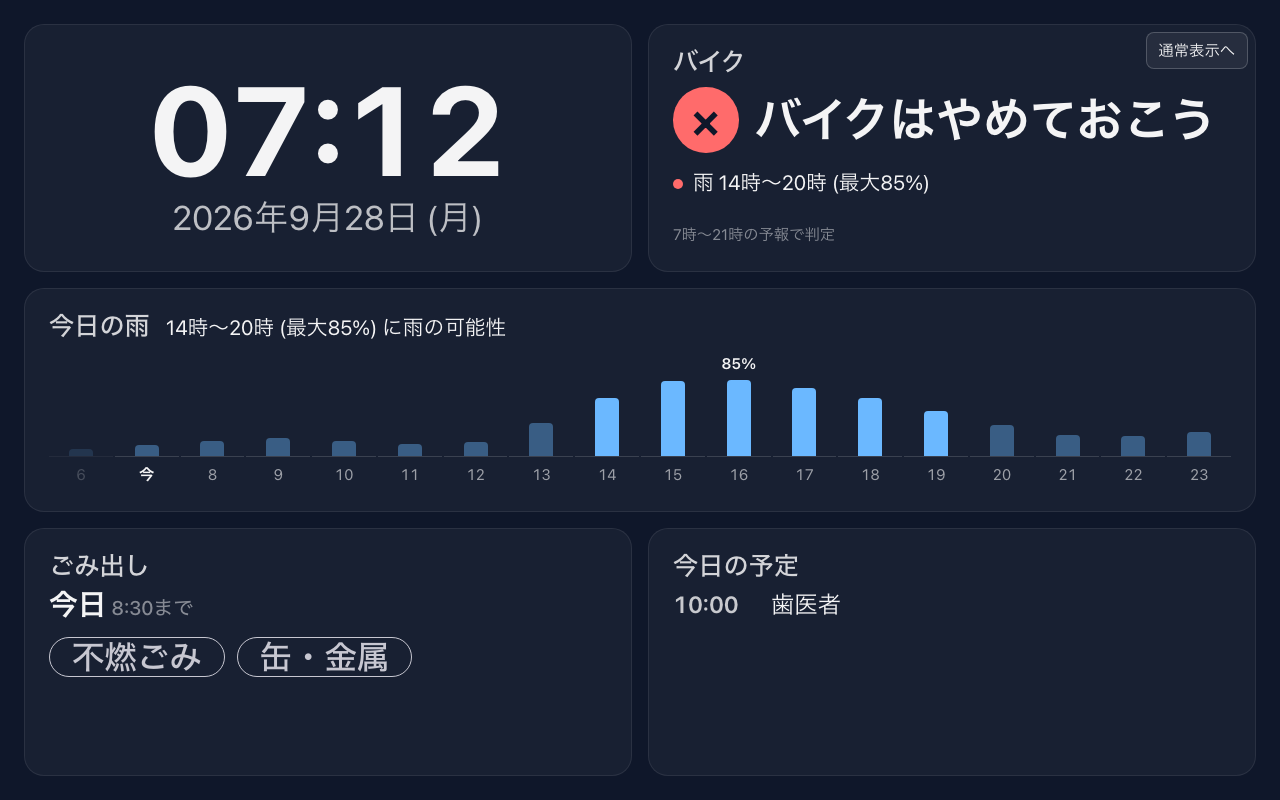
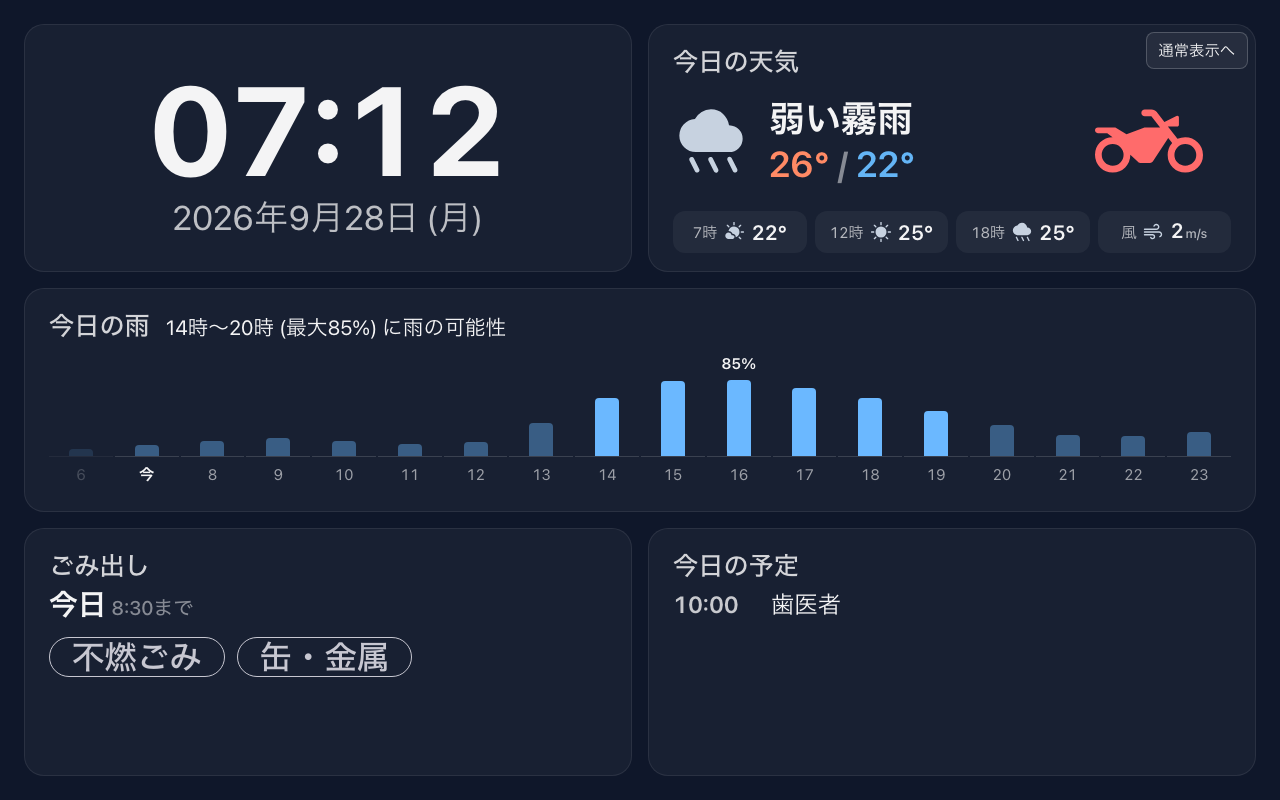
朝モードのバイク欄を「今日の天気」カードに変更し、判定はアイコンの色で示す
「バイクはやめておこう」などの文言と理由の一覧をやめ、今日の天気・最高/最低気温、
7時/12時/18時の天気と気温、最大風速を表示する。バイクで出かけられるかは
バイクのアイコンの色 (緑: 行ける / 黄: 注意 / 赤: やめておこう) だけで示す。
アイコンは Material Symbols (Apache License 2.0)。READMEの説明と画像も更新。

diff --git a/frontend/src/components/icons.jsx b/frontend/src/components/icons.jsx
@@ -1,0 +1,49 @@
+// アイコンはすべて Google Material Symbols (Rounded, Fill) の SVG パス (Apache License 2.0)
+const PATHS = {
+  bike: 'M157-200q-65 0-111-45.5T0-357q0-66 45.5-111.5T156-514l-47-36H25q-11 0-18-7t-7-18q0-11 7-18t18-7h156l99 60 149-56q5-2 10.5-3t10.5-1h129l-78-100h-59q-13 0-21.5-8.5T412-730q0-13 8.5-21.5T442-760h60q14 0 26.5 6t20.5 17l68 88 107-53q8-4 15 .5t7 12.5v65q0 6-4.5 10.5T731-609h-83l85 110q17-7 34-10.5t35-3.5q66 0 112 45.5T960-356q0 66-46 111t-112 45q-65 0-110.5-45.5T646-356q0-30 10-57t30-49l-35-45-137 209q-5 6-11 10t-14 4h-82q-5 0-10.5-2t-10.5-6l-72-65q0 66-45.5 111.5T157-200Zm0-60q41 0 69-28.5t28-68.5q0-40-28-68.5T157-454q-40 0-68.5 28T60-357q0 41 28.5 69t68.5 28Zm645 0q41 0 69.5-28t28.5-68q0-41-28.5-69.5T802-454q-40 0-68 28.5T706-356q0 40 28 68t68 28Z',
+  sunny: 'M458.5-778.63Q450-787.25 450-800v-90q0-12.75 8.68-21.38 8.67-8.62 21.5-8.62 12.82 0 21.32 8.62 8.5 8.63 8.5 21.38v90q0 12.75-8.68 21.37-8.67 8.63-21.5 8.63-12.82 0-21.32-8.63ZM685-685q-9-9-9-21.1 0-12.1 9-20.9l63-64q9.07-9 21.53-9 12.47 0 21.47 9 9 9 9 21t-9 21l-64 64q-9 9-21 9t-21-9Zm115 235q-12.75 0-21.37-8.68-8.63-8.67-8.63-21.5 0-12.82 8.63-21.32 8.62-8.5 21.37-8.5h90q12.75 0 21.38 8.68 8.62 8.67 8.62 21.5 0 12.82-8.62 21.32-8.63 8.5-21.38 8.5h-90ZM458.5-48.63Q450-57.25 450-70v-90q0-12.75 8.68-21.38 8.67-8.62 21.5-8.62 12.82 0 21.32 8.62 8.5 8.63 8.5 21.38v90q0 12.75-8.68 21.37-8.67 8.63-21.5 8.63-12.82 0-21.32-8.63ZM233-685l-64-63q-9-8.87-9-21.43 0-12.57 9.39-21.57 8.61-9 20.61-9t21 9l64 64q9 9 9 21t-9 21q-9.27 8-21.64 8-12.36 0-20.36-8Zm516 516-64-64q-9-8.8-9-20.9 0-12.1 9-21.1 8.25-8 20.63-8 12.37 0 21.37 8l65 63q9 9 8.63 21.6-.37 12.61-8.53 21.5-8.89 8.9-21.5 8.9-12.6 0-21.6-9ZM70-450q-12.75 0-21.37-8.68-8.63-8.67-8.63-21.5 0-12.82 8.63-21.32Q57.25-510 70-510h90q12.75 0 21.38 8.68 8.62 8.67 8.62 21.5 0 12.82-8.62 21.32-8.63 8.5-21.38 8.5H70Zm99 280.61q-9-8.61-9-20.61t9-21l64-64q8.25-8 20.63-8 12.37 0 21.37 8.25 9 9 9 21.37 0 12.38-9 21.38l-63 63q-8.87 9-21.43 9-12.57 0-21.57-9.39ZM310-310q-70-70-70-170t70-170q70-70 170-70t170 70q70 70 70 170t-70 170q-70 70-170 70t-170-70Z',
+  partlyCloudy: 'm749-169-63-63q-9-9-9-21.5t9-21.5q9-9 21.5-9t21.5 9l63 63q9 9 9 21.5t-9 21.5q-9 9-21.5 9t-21.5-9Zm-509-11q-58 0-99-41t-41-99q0-58 41-99t99-41q39 0 71.5 21t47.5 57l18 41h44q33 0 56 24t23 57q0 33-23.5 56.5T420-180H240Zm318-73q0-61-41-104.5T416-401q-20-56-68-89t-108-30q14-88 82.5-144T480-720q100 0 170 70t70 170q0 78-44.5 140T558-253Zm242-197q-13 0-21.5-8.5T770-480q0-13 8.5-21.5T800-510h90q13 0 21.5 8.5T920-480q0 13-8.5 21.5T890-450h-90ZM233-685l-64-64q-9-9-9-21t9-21q9-9 21-9t21 9l64 64q9 9 9 21t-9 21q-9 9-21 9t-21-9Zm452 0q-9-9-9-21.5t9-21.5l63-63q9-9 21.5-9t21.5 9q9 9 9 21t-9 21l-64 64q-9 9-21 9t-21-9Zm-226.5-93.5Q450-787 450-800v-90q0-13 8.5-21.5T480-920q13 0 21.5 8.5T510-890v90q0 13-8.5 21.5T480-770q-13 0-21.5-8.5Z',
+  cloud: 'M251-160q-88 0-149.5-61.5T40-371q0-78 50-137t127-71q20-97 94-158.5T482-799q112 0 189 81.5T748-522v24q72-2 122 46.5T920-329q0 69-50 119t-119 50H251Z',
+  rainy: 'M558-83q-11 5-23.5 1T517-97l-69-138q-5-11-1.5-23.5T461-276q11-5 23.5-1t17.5 15l69 138q5 11 1.5 23.5T558-83Zm240-1q-11 5-23.5 1T757-98l-69-138q-5-11-1.5-23.5T701-277q11-5 23.5-1t17.5 15l69 138q5 11 1.5 23.5T798-84Zm-480 0q-11 5-23.5 1.5T277-97l-69-138q-5-11-1-23.5t15-17.5q11-5 23.5-1.5T263-263l69 139q5 11 1 23t-15 17Zm-28-256q-87 0-148.5-61.5T80-550q0-79 56.5-141T277-759q32-56 84.5-88.5T480-880q91 0 152.5 57.5T708-680q79 4 125.5 53.5T880-510q0 70-49.5 120T710-340H290Z',
+  snowy: 'M231.5-221.64q-11.5-11.64-11.5-28.5t11.64-28.36q11.64-11.5 28.5-11.5t28.36 11.64q11.5 11.64 11.5 28.5t-11.64 28.36q-11.64 11.5-28.5 11.5t-28.36-11.64Zm120 130q-11.5-11.64-11.5-28.5t11.64-28.36q11.64-11.5 28.5-11.5t28.36 11.64q11.5 11.64 11.5 28.5T408.36-91.5Q396.72-80 379.86-80T351.5-91.64Zm120-130q-11.5-11.64-11.5-28.5t11.64-28.36q11.64-11.5 28.5-11.5t28.36 11.64q11.5 11.64 11.5 28.5t-11.64 28.36q-11.64 11.5-28.5 11.5t-28.36-11.64Zm240 0q-11.5-11.64-11.5-28.5t11.64-28.36q11.64-11.5 28.5-11.5t28.36 11.64q11.5 11.64 11.5 28.5t-11.64 28.36q-11.64 11.5-28.5 11.5t-28.36-11.64Zm-120 130q-11.5-11.64-11.5-28.5t11.64-28.36q11.64-11.5 28.5-11.5t28.36 11.64q11.5 11.64 11.5 28.5T648.36-91.5Q636.72-80 619.86-80T591.5-91.64ZM290-380q-86.86 0-148.43-61.52Q80-503.04 80-589.83 80-669 136.5-731 193-793 277-799q32-56 84.5-88.5T480.42-920q90.58 0 152.08 57.5Q694-805 708-720q79 4 125.5 53.5T880-550.38Q880-480 830.42-430 780.83-380 710-380H290Z',
+  thunderstorm: 'M327-40q-10 0-15.5-8T309-65l27-75h-65q-4 0-6.5-3t-.5-7l41-115q2-7 7.5-11t13.5-4h61q8 0 12.5 6.5T401-259l-34 79h68q5 0 6.5 4t-1.5 8L346-47q-3 4-7 5.5T327-40Zm270-40q-10 0-15.5-8t-2.5-17l19-55h-67q-4 0-6.5-3t-.5-7l33-95q2-7 8-11t14-4h61q8 0 12.5 6.5T654-259l-26 59h66q5 0 7 4t-1 8L616-87q-1 1-19 7ZM290-340q-87 0-148.5-61.5T80-550q0-79 56.5-141T277-759q32-56 84.5-88.5T480-880q91 0 152.5 57.5T708-680q79 4 125.5 53.5T880-510q0 70-49.5 120T710-340H290Z',
+  foggy: 'M720-205q-14 0-24.5-10.5T685-240q0-14 10.5-24.5T720-275q14 0 24.5 10.5T755-240q0 14-10.5 24.5T720-205ZM280-80q-14 0-24.5-10.5T245-115q0-14 10.5-24.5T280-150q14 0 24.5 10.5T315-115q0 14-10.5 24.5T280-80Zm-40-125q-14 0-24.5-10.5T205-240q0-14 10.5-24.5T240-275h360q14 0 24.5 10.5T635-240q0 14-10.5 24.5T600-205H240ZM400-80q-14 0-24.5-10.5T365-115q0-14 10.5-24.5T400-150h280q14 0 24.5 10.5T715-115q0 14-10.5 24.5T680-80H400ZM290-340q-87 0-148.5-61.5T80-550q0-79 56.5-141T277-759q32-56 84.5-88.5T480-880q91 0 152.5 57.5T708-680q79 4 125.5 53.5T880-510q0 70-49.5 120T710-340H290Z',
+  wind: 'M461-160q-38 0-69-22t-41-59q-3-13 6.5-23t23.5-10q11 0 19 7.5t13 18.5q6 14 19.5 21t28.5 7q23 0 38.5-15.5T515-274q0-23-15.5-38.5T461-328H110q-13 0-21.5-8.5T80-358q0-13 8.5-21.5T110-388h351q48 0 81 33t33 81q0 48-33 81t-81 33ZM110-568q-13 0-21.5-8.5T80-598q0-13 8.5-21.5T110-628h513q32 0 54-22t22-54q0-32-22-54t-54-22q-23 0-42 12t-26 33q-4 11-12.5 19t-19.5 8q-14 0-22.5-9.5T495-740q11-45 46.5-72.5T623-840q57 0 96.5 39.5T759-704q0 57-39.5 96.5T623-568H110Zm670 321q-13 2-22.5-6.5T748-276q0-11 8-19.5t19-12.5q22-7 33.5-26t11.5-42q0-30-21-51t-51-21H110q-13 0-21.5-8.5T80-478q0-13 8.5-21.5T110-508h638q55 0 93.5 38.5T880-376q0 47-27.5 83T780-247Z',
+};
+
+function Icon({ name, className, label }) {
+  return (
+    <svg
+      className={className}
+      viewBox="0 -960 960 960"
+      role={label ? 'img' : undefined}
+      aria-label={label}
+      aria-hidden={label ? undefined : true}
+    >
+      <path d={PATHS[name]} />
+    </svg>
+  );
+}
+
+// Open-Meteo の天気コード (WMO) → アイコン
+function weatherIconName(code) {
+  if (code <= 1) return 'sunny';
+  if (code === 2) return 'partlyCloudy';
+  if (code === 3) return 'cloud';
+  if (code === 45 || code === 48) return 'foggy';
+  if ((code >= 71 && code <= 77) || code === 85 || code === 86) return 'snowy';
+  if (code >= 95) return 'thunderstorm';
+  return 'rainy';
+}
+
+export function WeatherIcon({ code, className }) {
+  return <Icon name={weatherIconName(code)} className={`weather-icon ${className ?? ''}`} />;
+}
+
+export function BikeIcon({ className, label }) {
+  return <Icon name="bike" className={className} label={label} />;
+}
+
+export function WindIcon({ className }) {
+  return <Icon name="wind" className={className} />;
+}

diff --git a/frontend/src/components/MorningView.jsx b/frontend/src/components/MorningView.jsx
@@ -3,36 +3,69 @@ import { usePolling } from '../usePolling';
 import { garbageStyle, upcomingGarbageDays } from '../garbage';
 import { MORNING_SETTINGS, formatRainSpans, isRainHour, judgeBike, rainSpans } from '../morning';
 import Clock from './Clock';
+import { BikeIcon, WeatherIcon, WindIcon } from './icons';
 
+// バイク判定は文字で主張せず、アイコンの色だけで伝える (読み上げ用に aria-label は付ける)
 const BIKE_LABELS = {
-  ok: { icon: '◎', text: 'バイクで行ける' },
-  caution: { icon: '△', text: 'バイクは注意' },
-  ng: { icon: '×', text: 'バイクはやめておこう' },
+  ok: 'バイクで行ける',
+  caution: 'バイクは注意',
+  ng: 'バイクはやめておこう',
 };
 
+// 出かける・帰る時間帯の気温を並べる (服装を決める目安)
+const TIME_SLOTS = [7, 12, 18];
+
 function BikeCard({ weather, now }) {
-  const judgement = weather?.hourly ? judgeBike(weather.hourly, now) : null;
+  const today = weather?.daily?.[0];
+  const hourly = weather?.hourly ?? [];
+  const judgement = hourly.length ? judgeBike(hourly, now) : null;
+  const { outingStartHour, outingEndHour } = MORNING_SETTINGS;
+  const outingHours = hourly.filter((h) => h.hour >= outingStartHour && h.hour <= outingEndHour);
+  const maxWind = outingHours.length ? Math.max(...outingHours.map((h) => h.windSpeed)) : null;
 
   return (
     <div className="panel morning-bike">
-      <h2>バイク</h2>
-      {!judgement && <p className="muted">読み込み中...</p>}
-      {judgement && (
+      <h2>今日の天気</h2>
+      {!today && <p className="muted">読み込み中...</p>}
+      {today && (
         <>
-          <div className={`bike-verdict ${judgement.level}`}>
-            <span className="bike-verdict-icon">{BIKE_LABELS[judgement.level].icon}</span>
-            <span>{BIKE_LABELS[judgement.level].text}</span>
+          <div className="morning-bike-body">
+            <WeatherIcon code={today.weatherCode} className="morning-weather-icon" />
+            <div className="morning-weather">
+              <div className="morning-weather-text">{today.weatherText}</div>
+              <div className="morning-weather-temp">
+                <span className="temp-max">{Math.round(today.tempMax)}°</span>
+                <span className="morning-weather-sep"> / </span>
+                <span className="temp-min">{Math.round(today.tempMin)}°</span>
+              </div>
+            </div>
+            {judgement && (
+              <BikeIcon className={`bike-icon ${judgement.level}`} label={BIKE_LABELS[judgement.level]} />
+            )}
           </div>
-          <ul className="bike-reasons">
-            {judgement.reasons.map((r) => (
-              <li key={r.text} className={r.level}>
-                {r.text}
-              </li>
-            ))}
-          </ul>
-          <p className="muted bike-range">
-            {judgement.fromHour}時〜{judgement.toHour}時の予報で判定
-          </p>
+          <div className="morning-slots">
+            {TIME_SLOTS.map((hour) => {
+              const h = hourly.find((x) => x.hour === hour);
+              if (!h) return null;
+              return (
+                <div key={hour} className="morning-slot">
+                  <span className="morning-slot-label">{hour}時</span>
+                  <WeatherIcon code={h.weatherCode} className="morning-slot-icon" />
+                  <span className="morning-slot-value">{Math.round(h.temperature)}°</span>
+                </div>
+              );
+            })}
+            {maxWind !== null && (
+              <div className="morning-slot">
+                <span className="morning-slot-label">風</span>
+                <WindIcon className="morning-slot-icon" />
+                <span className="morning-slot-value">
+                  {Math.round(maxWind)}
+                  <small>m/s</small>
+                </span>
+              </div>
+            )}
+          </div>
         </>
       )}
     </div>

diff --git a/frontend/src/App.css b/frontend/src/App.css
@@ -510,73 +510,111 @@
 .morning-bike {
   display: flex;
   flex-direction: column;
+  padding-bottom: 18px;
 }
 
-.bike-verdict {
+.morning-bike h2 {
+  margin-bottom: 4px;
+}
+
+.morning-bike-body {
+  flex: 1;
   display: flex;
   align-items: center;
-  gap: 16px;
-  font-size: 2.6rem;
-  font-weight: 700;
+  gap: 20px;
 }
 
-.bike-verdict-icon {
-  display: inline-flex;
+.morning-weather-icon {
+  flex: 0 0 auto;
+  width: 76px;
+  height: 76px;
+}
+
+.weather-icon {
+  fill: #c7d2e0;
+}
+
+.morning-weather {
+  flex: 1;
+  min-width: 0;
+}
+
+.morning-weather-text {
+  font-size: 2rem;
+  font-weight: 700;
+  line-height: 1.2;
+}
+
+.morning-weather-temp {
+  margin-top: 2px;
+  font-size: 2rem;
+  font-weight: 600;
+  line-height: 1.2;
+}
+
+.morning-weather-sep {
+  opacity: 0.5;
+}
+
+.morning-slots {
+  display: flex;
+  gap: 8px;
+  margin-top: 8px;
+}
+
+.morning-slot {
+  flex: 1;
+  display: flex;
   align-items: center;
   justify-content: center;
-  width: 1.4em;
-  height: 1.4em;
-  border-radius: 50%;
-  color: #0f172a;
-}
-
-.bike-verdict.ok .bike-verdict-icon {
-  background: #7ddc8a;
-}
-
-.bike-verdict.caution .bike-verdict-icon {
-  background: #ffc857;
-}
-
-.bike-verdict.ng .bike-verdict-icon {
-  background: #ff6b6b;
-}
-
-.bike-reasons {
-  list-style: none;
-  margin: 16px 0 0;
-  padding: 0;
-  display: flex;
-  flex-direction: column;
   gap: 6px;
-  font-size: 1.15rem;
+  padding: 6px;
+  white-space: nowrap;
+  background: rgba(255, 255, 255, 0.05);
+  border-radius: 12px;
+  font-variant-numeric: tabular-nums;
 }
 
-.bike-reasons li::before {
-  content: '';
-  display: inline-block;
-  width: 10px;
-  height: 10px;
-  margin-right: 10px;
-  border-radius: 50%;
-  vertical-align: middle;
-}
-
-.bike-reasons li.ok::before {
-  background: #7ddc8a;
-}
-
-.bike-reasons li.caution::before {
-  background: #ffc857;
-}
-
-.bike-reasons li.ng::before {
-  background: #ff6b6b;
-}
-
-.bike-range {
-  margin: auto 0 0;
+.morning-slot-label {
   font-size: 0.85rem;
+  opacity: 0.7;
+}
+
+.morning-slot-icon {
+  width: 22px;
+  height: 22px;
+  fill: #c7d2e0;
+}
+
+.morning-slot-value {
+  font-size: 1.15rem;
+  font-weight: 600;
+}
+
+.morning-slot-value small {
+  margin-left: 2px;
+  font-size: 0.7rem;
+  font-weight: 500;
+  opacity: 0.7;
+}
+
+.bike-icon {
+  flex: 0 0 auto;
+  width: 108px;
+  height: 108px;
+  margin-right: 28px;
+}
+
+.bike-icon.ok {
+  fill: #7ddc8a;
+}
+
+.bike-icon.caution {
+  fill: #ffc857;
+}
+
+.bike-icon.ng {
+  fill: #ff6b6b;
 }
 
 .morning-rain {
